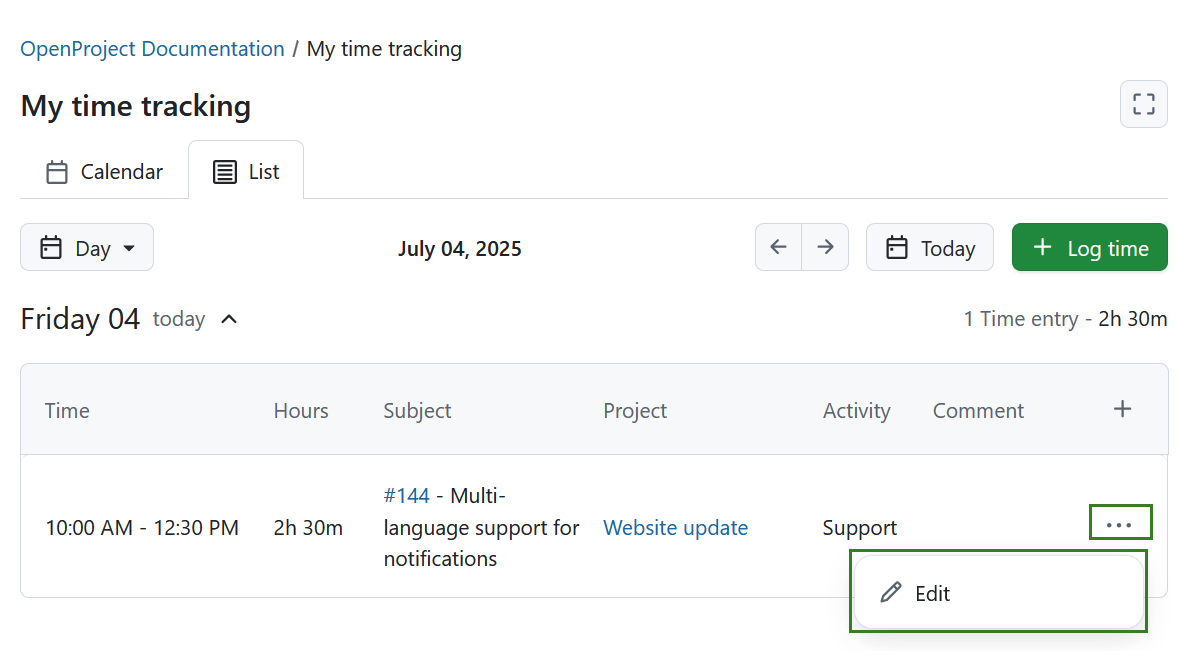
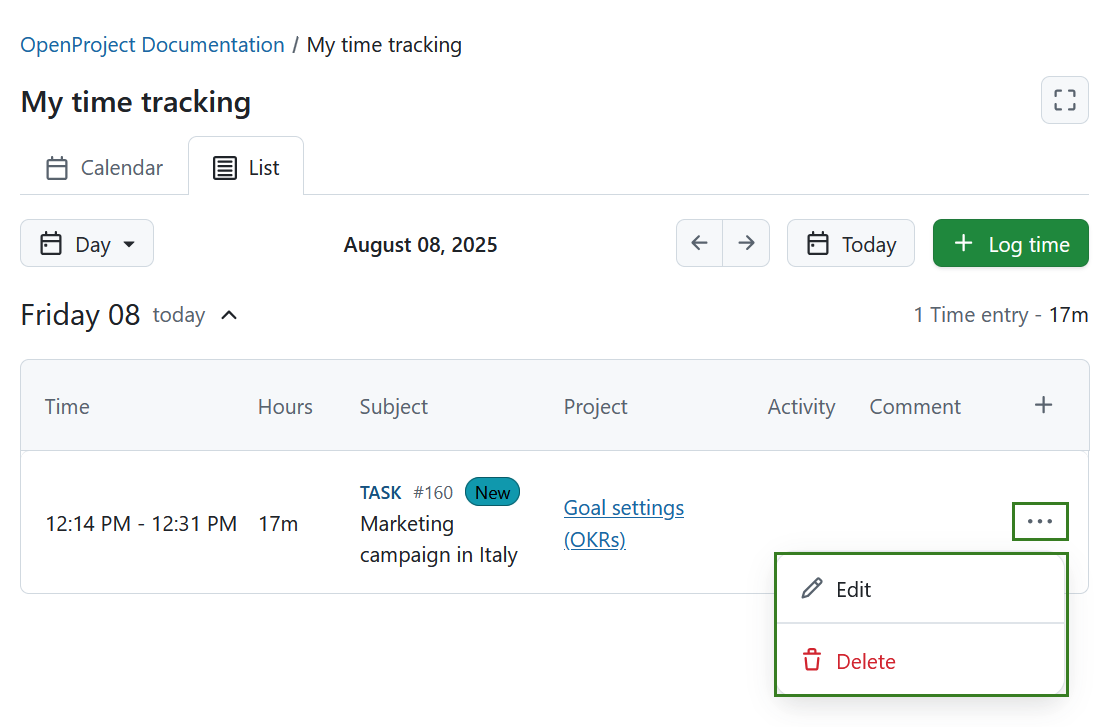
[#66348] "My time tracking" page changes  https://community.openproject.org/work_packages/66348
[#66348] "My time tracking" page changes

https://community.openproject.org/work_packages/66348

diff --git a/docs/user-guide/time-and-costs/my-time-tracking/README.md b/docs/user-guide/time-and-costs/my-time-tracking/README.md
@@ -12,6 +12,8 @@ keywords: time tracking, log time, time spent, calendar, time spent calendar, ti
 
 The *My time tracking* module offers a clear overview of your personal time entries. You can quickly log time directly from this page. To access it, select **My time tracking** from the left-hand menu.
 
+Alternatively, click the grid icon in the top left corner and select *My time tracking* from the overlay menu that will open.
+
 ![My tracking page overview in OpenProject](openproject_user_guide_my_time_tracking_module_overview.png)
 
 ### My time tracking page filters
@@ -28,8 +30,6 @@ The *My time tracking* module offers a clear overview of your personal time entr
    5. **Navigation arrows** — move to the previous or next time period.
    6. **Today** button — jump directly to the current day.
    7. **+ Log time** button — add a new time entry.
-
-
 
 ![My time tracking module filters explained](openproject_user_guide_my_time_tracking_module_filters_explained.png)
 
@@ -52,6 +52,10 @@ To edit a time entry, click it in the calendar, make your changes, and save. You
 At the bottom of each day a sum of hours per day is displayed. If week or month is selected, a respective total is also shown in the bottom right corner. 
 
 ![Sums of hours displayed at the bottom of the Calendar tab under My time tracking module in OpenProject](openproject_user_guide_my_time_tracking_module_calendar_tab_total_sums.png)
+
+If you are currently tracking time for a specific work package, you will also see the ongoing time tracking timer for the respective work package. The work package in question also has a different background color for easier differentiation. 
+
+![Active time tracking for a work package displayed on my time tracking page in OpenProject](openproject_user_guide_my_time_tracking_module_active_time_tracking_icon.png)
 
 ### List view
 
@@ -85,9 +89,9 @@ To log time in *List* view, you can either:
 
 ![List view under My time tracking module in OpenProject](openproject_user_guide_my_time_tracking_module_list_view_overview.png)
 
-To edit a time entry in the *List* view, click the **More** (three dots) icon at the end of the entry’s row in the table, then select the **Edit** (pencil) icon.
+To edit or delete a time entry in the *List* view, click the **More** (three dots) icon at the end of the entry’s row in the table, then select the **Edit** (pencil) or **Delete** icon respectively.
 
-![Icon to edit a time entry under List tab of the My time tracking module in OpenProject](openproject_user_guide_my_time_tracking_module_list_view_edit_icon.png)
+![Icon to edit or delete a time entry under List tab of the My time tracking module in OpenProject](openproject_user_guide_my_time_tracking_module_list_view_edit_icon.png)
 
 ## Log time in My time tracking module
 
